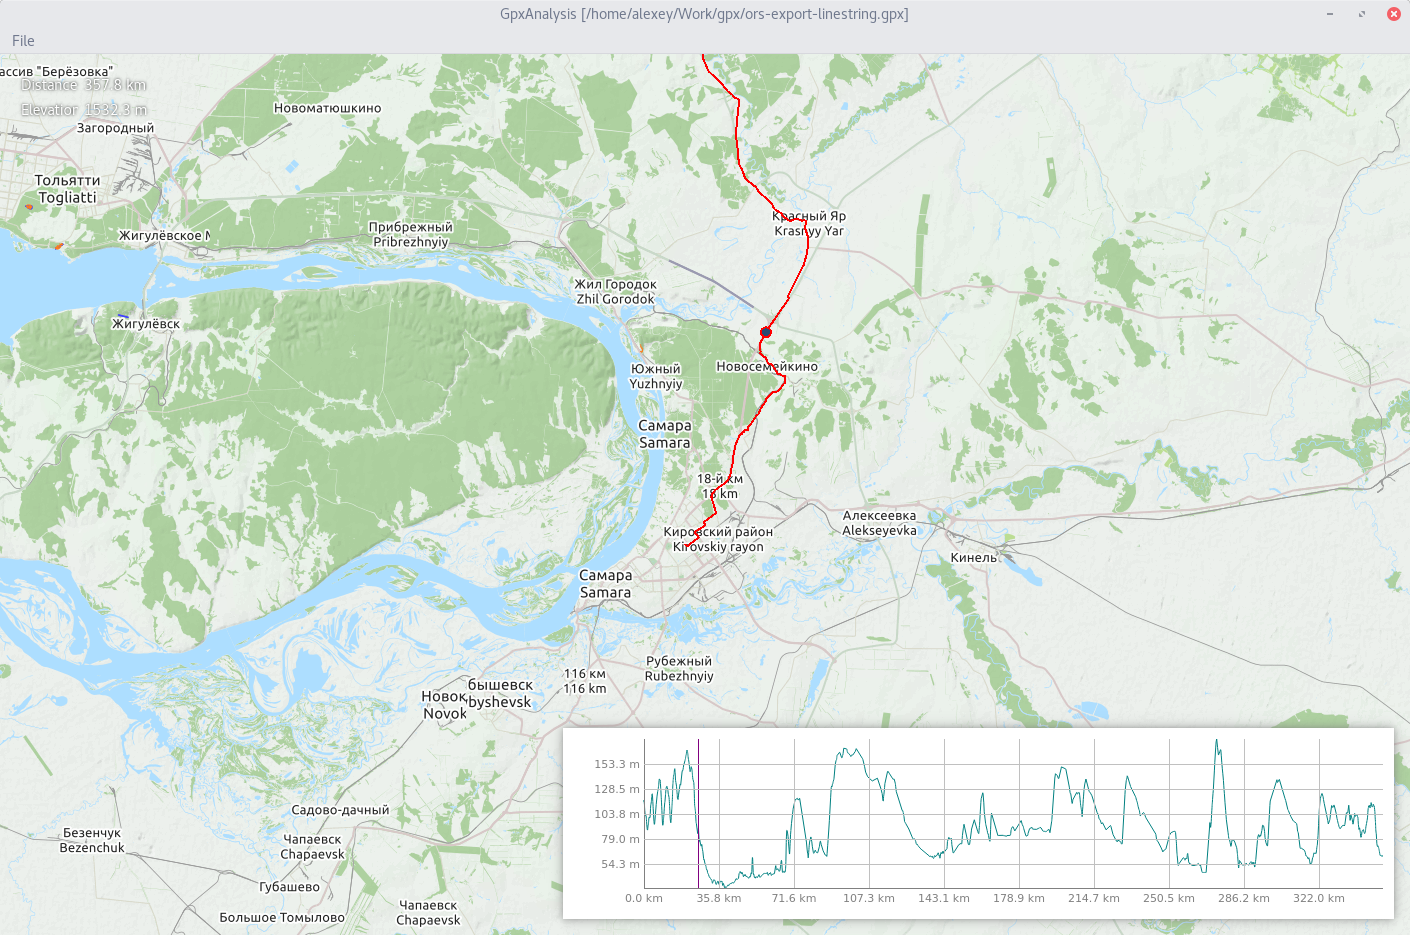
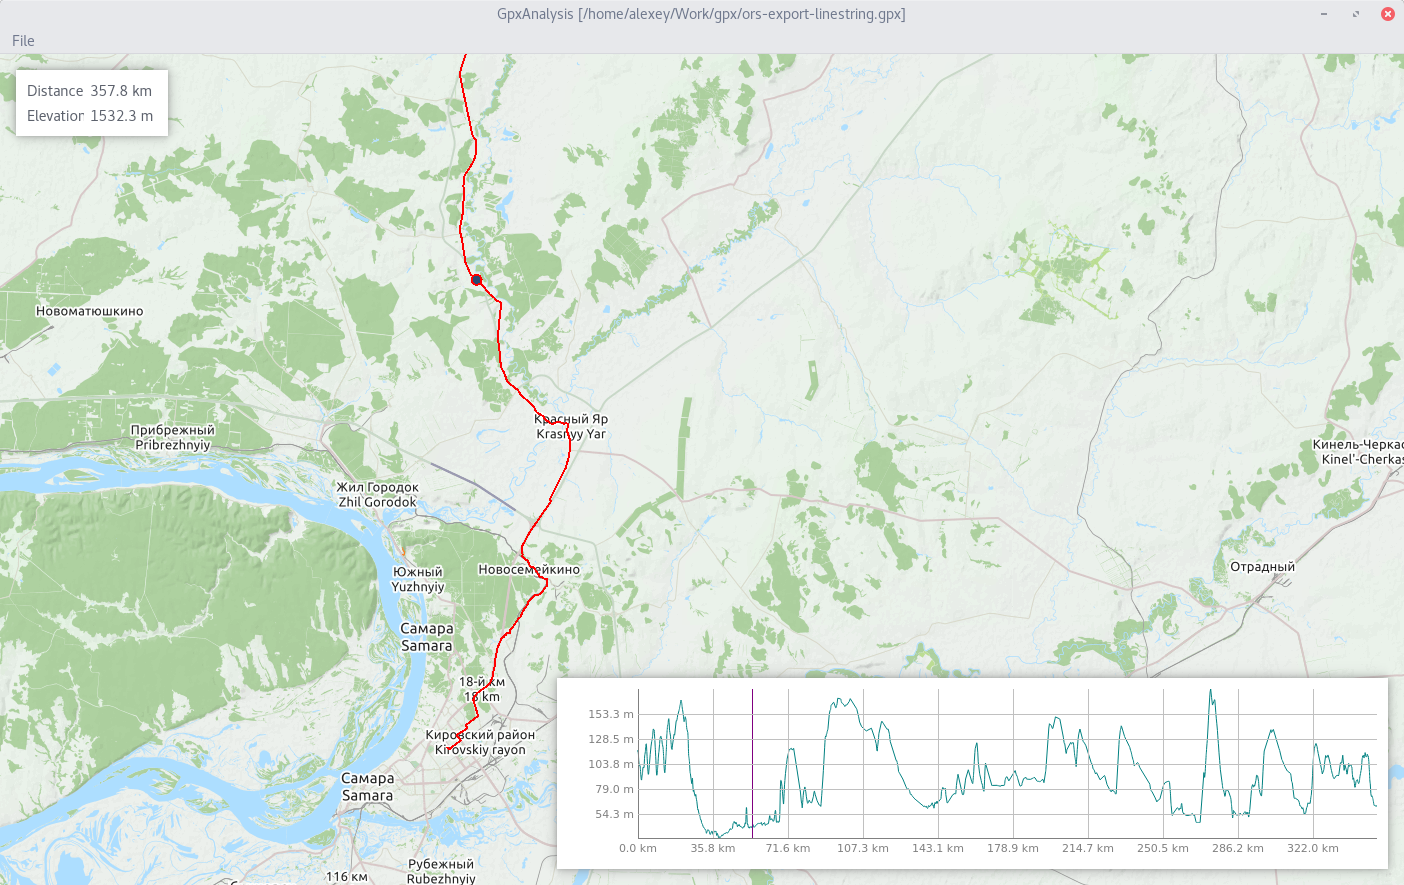
redesign overlay frame

diff --git a/MainWindow.cpp b/MainWindow.cpp
@@ -19,21 +19,21 @@ MainWindow::MainWindow(QWidget *parent) :
 
     loadRecentMenuFromSettings();
 
-    QGraphicsDropShadowEffect *textShadowEffect = new QGraphicsDropShadowEffect(this);
-    textShadowEffect->setBlurRadius(6);
-    textShadowEffect->setColor(Qt::black);
-    textShadowEffect->setXOffset(0);
-    textShadowEffect->setYOffset(0);
+    QGraphicsDropShadowEffect *overlayFrameShadowEffect = new QGraphicsDropShadowEffect(this);
+    overlayFrameShadowEffect->setBlurRadius(20);
+    overlayFrameShadowEffect->setColor(Qt::darkGray);
+    overlayFrameShadowEffect->setXOffset(0);
+    overlayFrameShadowEffect->setYOffset(0);
 
-    ui->overlayFrame->setGraphicsEffect(textShadowEffect);
+    ui->overlayFrame->setGraphicsEffect(overlayFrameShadowEffect);
 
-    QGraphicsDropShadowEffect *frameShadowEffect = new QGraphicsDropShadowEffect(this);
-    frameShadowEffect->setBlurRadius(20);
-    frameShadowEffect->setColor(Qt::darkGray);
-    frameShadowEffect->setXOffset(0);
-    frameShadowEffect->setYOffset(0);
+    QGraphicsDropShadowEffect *analysisFrameShadowEffect = new QGraphicsDropShadowEffect(this);
+    analysisFrameShadowEffect->setBlurRadius(20);
+    analysisFrameShadowEffect->setColor(Qt::darkGray);
+    analysisFrameShadowEffect->setXOffset(0);
+    analysisFrameShadowEffect->setYOffset(0);
 
-    ui->analysisFrame->setGraphicsEffect(frameShadowEffect);
+    ui->analysisFrame->setGraphicsEffect(analysisFrameShadowEffect);
 
     ui->analysisWidget->setValueMeasureLabel(tr("m"));
 
@@ -64,6 +64,10 @@ void MainWindow::updateWidgetsGeometry()
     osmMapGeometry.setTopLeft(QPoint(0, 0));
     osmMapGeometry.setSize(ui->baseWidget->size());
     ui->osmMapWidget->setGeometry(osmMapGeometry);
+
+    QRect overlayGeometry = ui->overlayFrame->geometry();
+    overlayGeometry.moveTo(QPoint(16, 16));
+    ui->overlayFrame->setGeometry(overlayGeometry);
 
     QRect analysisGeometry = ui->analysisFrame->geometry();
     analysisGeometry.moveTo(QPoint(ui->baseWidget->size().width() - analysisGeometry.width() - 16, ui->baseWidget->size().height() - analysisGeometry.height() - 16));
